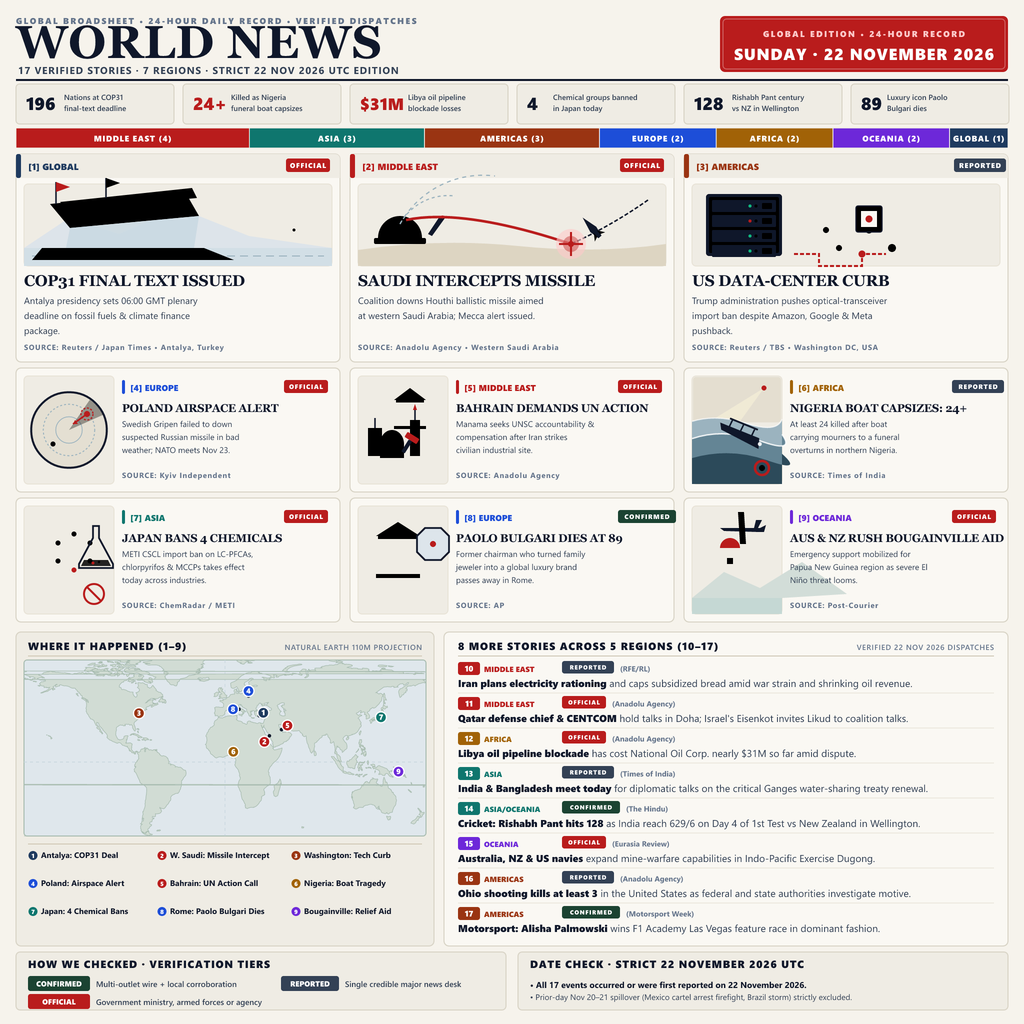
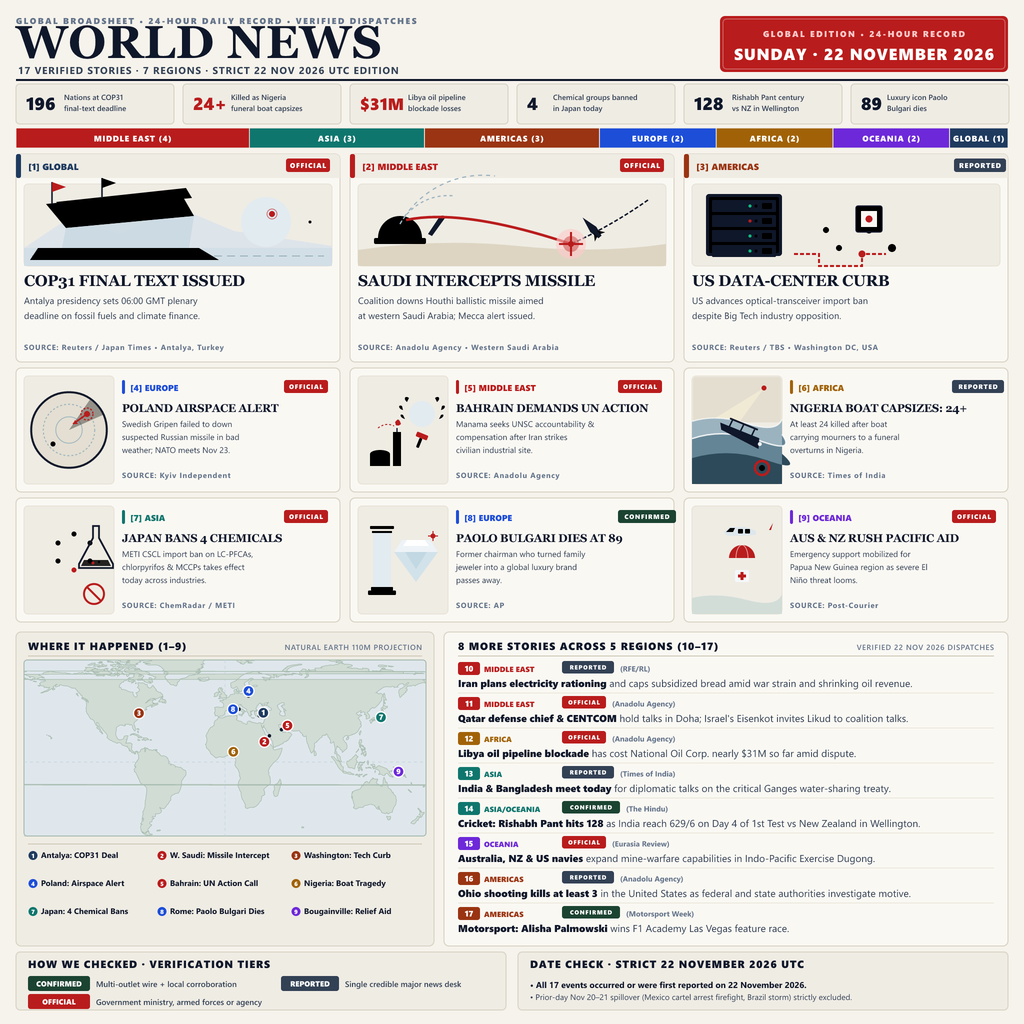
v2: 17-story 7-region broadsheet with Natural Earth map and polished illustrations

diff --git a/scripts/render.ts b/scripts/render.ts
@@ -176,33 +176,48 @@ function renderIllustration1(w: number, h: number): string {
   return `
     <rect width="${w}" height="${h}" rx="4" fill="${C.cardMuted}" stroke="${C.cardBorderSubtle}" stroke-width="1"/>
     <!-- Mediterranean Mountain Ridgeline -->
-    <path d="M 0,${h - 18} L 45,${h - 48} L 95,${h - 32} L 155,${h - 58} L 225,${h - 30} L ${w},${h - 18} L ${w},${h} L 0,${h} Z" fill="#DDE4EA"/>
+    <path d="M 0,${h - 18} L 45,${h - 48} L 95,${h - 32} L 155,${h - 58} L 210,${h - 35} L ${w},${h - 20} L ${w},${h} L 0,${h} Z" fill="#DDE4EA"/>
     <polygon points="155,${h - 58} 165,${h - 46} 145,${h - 46}" fill="#FFFFFF" opacity="0.9"/>
     <!-- Coastline Water -->
     <rect x="0" y="${h - 18}" width="${w}" height="18" fill="#D2DFE6"/>
     <line x1="8" y1="${h - 10}" x2="${w - 8}" y2="${h - 10}" stroke="#9BB3BF" stroke-width="1" stroke-dasharray="8,5"/>
-    <!-- Offshore Wind Turbines -->
-    <g transform="translate(${w - 38}, ${h - 36})">
-      <line x1="0" y1="20" x2="0" y2="0" stroke="${C.steelDark}" stroke-width="1.2"/>
-      <circle cx="0" cy="0" r="1.5" fill="${C.steelDark}"/>
-      <line x1="0" y1="0" x2="-8" y2="-6" stroke="${C.steelMid}" stroke-width="1"/>
-      <line x1="0" y1="0" x2="9" y2="-3" stroke="${C.steelMid}" stroke-width="1"/>
-      <line x1="0" y1="0" x2="-1" y2="9" stroke="${C.steelMid}" stroke-width="1"/>
+    
+    <!-- Stylized COP31 Climate Globe (Latitude/Longitude Lines) -->
+    <g transform="translate(242, 38)">
+      <circle cx="0" cy="0" r="25" fill="#E2EBF0" stroke="${C.steelDark}" stroke-width="1.6"/>
+      <line x1="-25" y1="0" x2="25" y2="0" stroke="${C.steelMid}" stroke-width="1.2"/>
+      <line x1="0" y1="-25" x2="0" y2="25" stroke="${C.steelMid}" stroke-width="1.2"/>
+      <ellipse cx="0" cy="-11" rx="21" ry="6" fill="none" stroke="${C.steelMid}" stroke-width="1"/>
+      <ellipse cx="0" cy="11" rx="21" ry="6" fill="none" stroke="${C.steelMid}" stroke-width="1"/>
+      <ellipse cx="0" cy="0" rx="13" ry="25" fill="none" stroke="${C.steelMid}" stroke-width="1.2"/>
+      <!-- Antalya Summit Crimson Beacon -->
+      <circle cx="6" cy="-8" r="3" fill="${C.crimson}"/>
+      <circle cx="6" cy="-8" r="5" fill="none" stroke="${C.crimson}" stroke-width="0.8" opacity="0.6"/>
     </g>
+
+    <!-- Offshore Wind Turbine -->
+    <g transform="translate(286, 38)">
+      <line x1="0" y1="26" x2="0" y2="0" stroke="${C.steelDark}" stroke-width="1.2"/>
+      <circle cx="0" cy="0" r="1.5" fill="${C.steelDark}"/>
+      <line x1="0" y1="0" x2="-7" y2="-6" stroke="${C.steelMid}" stroke-width="1"/>
+      <line x1="0" y1="0" x2="8" y2="-3" stroke="${C.steelMid}" stroke-width="1"/>
+      <line x1="0" y1="0" x2="-1" y2="8" stroke="${C.steelMid}" stroke-width="1"/>
+    </g>
+
     <!-- Modern Cantilever Pavilion Architecture -->
-    <polygon points="18,${h - 18} 180,${h - 18} 210,${h - 6} 8,${h - 6}" fill="${C.steelDark}"/>
-    <polygon points="26,${h - 62} 160,${h - 76} 175,${h - 50} 46,${h - 38}" fill="${C.steelDark}"/>
-    <polygon points="36,${h - 64} 168,${h - 78} 173,${h - 68} 44,${h - 56}" fill="${C.steelMid}"/>
+    <polygon points="14,${h - 18} 175,${h - 18} 195,${h - 6} 6,${h - 6}" fill="${C.steelDark}"/>
+    <polygon points="22,${h - 62} 155,${h - 76} 170,${h - 50} 42,${h - 38}" fill="${C.steelDark}"/>
+    <polygon points="32,${h - 64} 162,${h - 78} 168,${h - 68} 40,${h - 56}" fill="${C.steelMid}"/>
     <!-- Glass Facade & Columns -->
-    <polygon points="46,${h - 38} 175,${h - 50} 170,${h - 18} 42,${h - 18}" fill="#C8D8E2" opacity="0.85"/>
-    <line x1="72" y1="${h - 41}" x2="68" y2="${h - 18}" stroke="${C.steelDark}" stroke-width="2"/>
-    <line x1="104" y1="${h - 44}" x2="100" y2="${h - 18}" stroke="${C.steelDark}" stroke-width="2"/>
-    <line x1="136" y1="${h - 47}" x2="132" y2="${h - 18}" stroke="${C.steelDark}" stroke-width="2"/>
+    <polygon points="42,${h - 38} 170,${h - 50} 165,${h - 18} 38,${h - 18}" fill="#C8D8E2" opacity="0.85"/>
+    <line x1="68" y1="${h - 41}" x2="64" y2="${h - 18}" stroke="${C.steelDark}" stroke-width="2"/>
+    <line x1="100" y1="${h - 44}" x2="96" y2="${h - 18}" stroke="${C.steelDark}" stroke-width="2"/>
+    <line x1="132" y1="${h - 47}" x2="128" y2="${h - 18}" stroke="${C.steelDark}" stroke-width="2"/>
     <!-- Flags atop roof -->
-    <line x1="32" y1="${h - 62}" x2="32" y2="${h - 84}" stroke="${C.inkNavy}" stroke-width="1.5"/>
-    <polygon points="32,${h - 84} 46,${h - 79} 32,${h - 74}" fill="${C.crimson}"/>
-    <line x1="82" y1="${h - 68}" x2="82" y2="${h - 88}" stroke="${C.inkNavy}" stroke-width="1.5"/>
-    <polygon points="82,${h - 88} 96,${h - 83} 82,${h - 78}" fill="${C.steelMid}"/>
+    <line x1="28" y1="${h - 62}" x2="28" y2="${h - 84}" stroke="${C.inkNavy}" stroke-width="1.5"/>
+    <polygon points="28,${h - 84} 42,${h - 79} 28,${h - 74}" fill="${C.crimson}"/>
+    <line x1="78" y1="${h - 68}" x2="78" y2="${h - 88}" stroke="${C.inkNavy}" stroke-width="1.5"/>
+    <polygon points="78,${h - 88} 92,${h - 83} 78,${h - 78}" fill="${C.steelMid}"/>
   `;
 }
 
@@ -318,33 +333,50 @@ function renderIllustration4(w: number, h: number): string {
   `;
 }
 
-// 5. Bahrain Demands UN Action: Industrial Skyline & Neoclassical Diplomatic Motif
+// 5. Bahrain Demands UN Action: Industrial Skyline & UN Olive-Branch Council Emblem
 function renderIllustration5(w: number, h: number): string {
   return `
     <rect width="${w}" height="${h}" rx="4" fill="${C.cardMuted}" stroke="${C.cardBorderSubtle}" stroke-width="1"/>
-    <!-- Manama Coastal Industrial Skyline -->
-    <g transform="translate(10, ${h - 28})">
-      <rect x="0" y="-28" width="14" height="28" fill="${C.steelDark}"/>
-      <line x1="7" y1="-38" x2="7" y2="-28" stroke="${C.inkNavy}" stroke-width="1.5"/>
-      <ellipse cx="24" cy="-12" rx="12" ry="14" fill="${C.steelMid}"/>
-      <rect x="12" y="-12" width="24" height="14" fill="${C.steelMid}"/>
-      <rect x="42" y="-36" width="10" height="36" fill="${C.steelDark}"/>
-      <line x1="47" y1="-46" x2="47" y2="-36" stroke="${C.inkNavy}" stroke-width="1.5"/>
-      <polygon points="45,-46 47,-52 49,-46" fill="${C.crimson}"/>
+    <!-- Manama Coastal Industrial Facility Silhouette (Bottom Left) -->
+    <g transform="translate(8, ${h - 18})">
+      <line x1="-2" y1="0" x2="48" y2="0" stroke="${C.steelDark}" stroke-width="1.5"/>
+      <ellipse cx="14" cy="-12" rx="10" ry="4" fill="${C.steelDark}"/>
+      <rect x="4" y="-12" width="20" height="12" fill="${C.steelDark}"/>
+      <rect x="27" y="-34" width="8" height="34" fill="${C.steelMid}"/>
+      <line x1="31" y1="-38" x2="31" y2="-34" stroke="${C.inkNavy}" stroke-width="1.2"/>
+      <!-- Small crimson alert wave / spark over facility -->
+      <path d="M 29,-44 Q 31,-38 35,-42 Q 33,-48 31,-46 Z" fill="${C.crimson}"/>
+      <circle cx="31" cy="-42" r="1.5" fill="${C.crimson}"/>
+      <path d="M 12,-38 Q 20,-44 28,-40" fill="none" stroke="${C.crimson}" stroke-width="1" stroke-dasharray="2,2"/>
     </g>
-    <!-- UN Diplomatic Portico & Gavel Silhouette -->
-    <g transform="translate(${w - 38}, 16)">
-      <polygon points="-16,8 16,8 0,-4" fill="${C.steelDark}"/>
-      <rect x="-14" y="8" width="28" height="2.5" fill="${C.steelDark}"/>
-      <line x1="-10" y1="10.5" x2="-10" y2="34" stroke="${C.steelDark}" stroke-width="2"/>
-      <line x1="-3" y1="10.5" x2="-3" y2="34" stroke="${C.steelDark}" stroke-width="2"/>
-      <line x1="4" y1="10.5" x2="4" y2="34" stroke="${C.steelDark}" stroke-width="2"/>
-      <line x1="11" y1="10.5" x2="11" y2="34" stroke="${C.steelDark}" stroke-width="2"/>
-      <rect x="-16" y="34" width="32" height="3" fill="${C.steelDark}"/>
-      <!-- Gavel Silhouette -->
-      <g transform="translate(2, 46) rotate(32)">
-        <rect x="-7" y="-3" width="14" height="6" rx="1" fill="${C.crimson}"/>
-        <rect x="-2" y="3" width="4" height="14" rx="0.8" fill="${C.inkNavy}"/>
+
+    <!-- Clean UN Olive-Branch / Council Emblem (Right / Upper) -->
+    <g transform="translate(64, 38)">
+      <!-- Central Globe -->
+      <circle cx="0" cy="0" r="13" fill="#E2EBF0" stroke="${C.steelDark}" stroke-width="1.3"/>
+      <line x1="-13" y1="0" x2="13" y2="0" stroke="${C.steelMid}" stroke-width="0.8"/>
+      <line x1="0" y1="-13" x2="0" y2="13" stroke="${C.steelMid}" stroke-width="0.8"/>
+      <ellipse cx="0" cy="0" rx="6.5" ry="13" fill="none" stroke="${C.steelMid}" stroke-width="0.8"/>
+
+      <!-- Twin Olive Branches Flanking the Globe -->
+      <!-- Left Branch Arc -->
+      <path d="M -16,10 C -21,2 -19,-8 -12,-15" fill="none" stroke="${C.steelDark}" stroke-width="1.4"/>
+      <!-- Left Leaves -->
+      <path d="M -17,5 C -22,4 -23,-1 -19,1 Z" fill="${C.steelMid}"/>
+      <path d="M -19,-4 C -24,-5 -24,-10 -20,-8 Z" fill="${C.steelMid}"/>
+      <path d="M -15,-12 C -19,-15 -17,-19 -13,-16 Z" fill="${C.steelMid}"/>
+
+      <!-- Right Branch Arc -->
+      <path d="M 16,10 C 21,2 19,-8 12,-15" fill="none" stroke="${C.steelDark}" stroke-width="1.4"/>
+      <!-- Right Leaves -->
+      <path d="M 17,5 C 22,4 23,-1 19,1 Z" fill="${C.steelMid}"/>
+      <path d="M 19,-4 C 24,-5 24,-10 20,-8 Z" fill="${C.steelMid}"/>
+      <path d="M 15,-12 C 19,-15 17,-19 13,-16 Z" fill="${C.steelMid}"/>
+
+      <!-- UN Gavel Silhouette at Base -->
+      <g transform="translate(0, 22) rotate(22)">
+        <rect x="-6" y="-2.5" width="12" height="5" rx="1" fill="${C.crimson}"/>
+        <rect x="-1.5" y="2.5" width="3" height="10" rx="0.8" fill="${C.steelDark}"/>
       </g>
     </g>
   `;
@@ -415,62 +447,106 @@ function renderIllustration7(w: number, h: number): string {
   `;
 }
 
-// 8. Paolo Bulgari Dies at 89: Classical Roman Facade & Octagonal Gem Facet
+// 8. Paolo Bulgari Dies at 89: Faceted Gemstone & Minimalist Roman Column
 function renderIllustration8(w: number, h: number): string {
-  const cx = w / 2;
   return `
     <rect width="${w}" height="${h}" rx="4" fill="${C.cardMuted}" stroke="${C.cardBorderSubtle}" stroke-width="1"/>
-    <!-- Classical Roman Architectural Temple Facade -->
-    <g transform="translate(18, 16)">
-      <polygon points="0,14 44,14 22,0" fill="${C.steelDark}"/>
-      <rect x="2" y="14" width="40" height="3" fill="${C.steelDark}"/>
-      <line x1="6" y1="17" x2="6" y2="52" stroke="${C.steelDark}" stroke-width="2.5"/>
-      <line x1="17" y1="17" x2="17" y2="52" stroke="${C.steelDark}" stroke-width="2.5"/>
-      <line x1="27" y1="17" x2="27" y2="52" stroke="${C.steelDark}" stroke-width="2.5"/>
-      <line x1="38" y1="17" x2="38" y2="52" stroke="${C.steelDark}" stroke-width="2.5"/>
-      <rect x="0" y="52" width="44" height="4" fill="${C.steelDark}"/>
+    <!-- Minimalist Classical Roman Column (Left) -->
+    <g transform="translate(10, 18)">
+      <rect x="2" y="2" width="24" height="3" rx="0.8" fill="${C.steelDark}"/>
+      <path d="M 2,6 C 0,4 2,2 5,4.5 L 23,4.5 C 26,2 28,4 26,6" fill="none" stroke="${C.steelDark}" stroke-width="1.5"/>
+      <rect x="4" y="7" width="20" height="2" fill="${C.steelMid}"/>
+      
+      <rect x="5" y="9" width="18" height="54" fill="#E2EBF0" stroke="${C.steelDark}" stroke-width="1.3"/>
+      <line x1="9" y1="10" x2="9" y2="62" stroke="${C.steelMid}" stroke-width="1"/>
+      <line x1="14" y1="10" x2="14" y2="62" stroke="${C.steelMid}" stroke-width="1"/>
+      <line x1="19" y1="10" x2="19" y2="62" stroke="${C.steelMid}" stroke-width="1"/>
+
+      <rect x="3" y="63" width="22" height="3.5" rx="0.6" fill="${C.steelMid}"/>
+      <rect x="0" y="66.5" width="28" height="4.5" rx="1" fill="${C.steelDark}"/>
     </g>
-    <!-- Octagonal Step-cut Emerald / Gemstone Silhouette -->
-    <g transform="translate(${cx + 14}, 22)">
-      <polygon points="8,0 24,0 32,8 32,24 24,32 8,32 0,24 0,8" fill="#DDE5EB" stroke="${C.inkNavy}" stroke-width="1.8"/>
-      <polygon points="12,5 20,5 25,10 25,22 20,27 12,27 7,22 7,10" fill="none" stroke="${C.steelMid}" stroke-width="1"/>
-      <line x1="8" y1="0" x2="12" y2="5" stroke="${C.steelMid}" stroke-width="1"/>
-      <line x1="24" y1="0" x2="20" y2="5" stroke="${C.steelMid}" stroke-width="1"/>
-      <line x1="32" y1="8" x2="25" y2="10" stroke="${C.steelMid}" stroke-width="1"/>
-      <line x1="32" y1="24" x2="25" y2="22" stroke="${C.steelMid}" stroke-width="1"/>
-      <line x1="24" y1="32" x2="20" y2="27" stroke="${C.steelMid}" stroke-width="1"/>
-      <line x1="8" y1="32" x2="12" y2="27" stroke="${C.steelMid}" stroke-width="1"/>
-      <circle cx="16" cy="16" r="3" fill="${C.crimson}"/>
+
+    <!-- Crisp Faceted Brilliant-Cut Diamond / Gemstone (Right) -->
+    <g transform="translate(58, 48)">
+      <!-- Crown / Table Top -->
+      <polygon points="-14,-14 14,-14 22,-2 -22,-2" fill="#EDF3F7" stroke="${C.steelDark}" stroke-width="1.5"/>
+      <polygon points="-9,-14 9,-14 13,-8 -13,-8" fill="#FFFFFF" stroke="${C.steelMid}" stroke-width="0.8"/>
+      <line x1="-14" y1="-14" x2="-13" y2="-8" stroke="${C.steelMid}" stroke-width="0.8"/>
+      <line x1="14" y1="-14" x2="13" y2="-8" stroke="${C.steelMid}" stroke-width="0.8"/>
+      <line x1="-13" y1="-8" x2="-22" y2="-2" stroke="${C.steelMid}" stroke-width="0.8"/>
+      <line x1="13" y1="-8" x2="22" y2="-2" stroke="${C.steelMid}" stroke-width="0.8"/>
+      <line x1="0" y1="-14" x2="0" y2="-2" stroke="${C.steelMid}" stroke-width="0.8"/>
+
+      <!-- Girdle Separator -->
+      <line x1="-22" y1="-2" x2="22" y2="-2" stroke="${C.steelDark}" stroke-width="1.6"/>
+
+      <!-- Lower Pavilion Cone -->
+      <polygon points="-22,-2 22,-2 0,28" fill="#D2E2EA" stroke="${C.steelDark}" stroke-width="1.5"/>
+      <line x1="0" y1="28" x2="-11" y2="-2" stroke="${C.steelMid}" stroke-width="0.9"/>
+      <line x1="0" y1="28" x2="11" y2="-2" stroke="${C.steelMid}" stroke-width="0.9"/>
+      <polygon points="-11,-2 11,-2 0,15" fill="#C2D8E3" stroke="${C.steelMid}" stroke-width="0.8"/>
+
+      <!-- Crimson Sparkle Glint -->
+      <circle cx="17" cy="-18" r="2.5" fill="${C.crimson}"/>
+      <line x1="17" y1="-23" x2="17" y2="-13" stroke="${C.crimson}" stroke-width="1"/>
+      <line x1="12" y1="-18" x2="22" y2="-18" stroke="${C.crimson}" stroke-width="1"/>
     </g>
   `;
 }
 
-// 9. Bougainville Relief Aid: Pacific Coastline & Humanitarian Cargo Airlift
+// 9. Bougainville / Pacific Relief Aid: Coastline, Helicopter & Parachute Aid Crate
 function renderIllustration9(w: number, h: number): string {
   return `
     <rect width="${w}" height="${h}" rx="4" fill="${C.cardMuted}" stroke="${C.cardBorderSubtle}" stroke-width="1"/>
-    <!-- Tropical Island Volcanic Ridge & Palms -->
-    <path d="M 0,${h - 16} L 32,${h - 42} L 68,${h - 26} L 110,${h - 52} L 155,${h - 20} L ${w},${h - 16} L ${w},${h} L 0,${h} Z" fill="#D2DDD8"/>
-    <rect x="0" y="${h - 16}" width="${w}" height="16" fill="#C5D8D4"/>
-    <!-- Palm Silhouette -->
-    <g transform="translate(24, ${h - 16})">
-      <path d="M 0,0 Q -4,-18 -10,-24" fill="none" stroke="${C.steelDark}" stroke-width="2"/>
-      <line x1="-10" y1="-24" x2="-20" y2="-28" stroke="${C.steelDark}" stroke-width="1.2"/>
-      <line x1="-10" y1="-24" x2="-14" y2="-34" stroke="${C.steelDark}" stroke-width="1.2"/>
-      <line x1="-10" y1="-24" x2="-2" y2="-32" stroke="${C.steelDark}" stroke-width="1.2"/>
-      <line x1="-10" y1="-24" x2="-3" y2="-22" stroke="${C.steelDark}" stroke-width="1.2"/>
+    <!-- Tropical Island Shoreline & Palm (Bottom) -->
+    <path d="M 0,92 Q 25,86 55,94 T ${w},88 L ${w},108 L 0,108 Z" fill="#D2DDD8"/>
+    <g transform="translate(18, 92)">
+      <path d="M 0,0 Q -3,-14 -8,-20" fill="none" stroke="${C.steelDark}" stroke-width="1.8"/>
+      <path d="M -8,-20 Q -16,-23 -20,-20" fill="none" stroke="${C.steelMid}" stroke-width="1.2"/>
+      <path d="M -8,-20 Q -10,-28 -5,-30" fill="none" stroke="${C.steelMid}" stroke-width="1.2"/>
+      <path d="M -8,-20 Q 0,-27 4,-26" fill="none" stroke="${C.steelMid}" stroke-width="1.2"/>
     </g>
-    <!-- Humanitarian Cargo Airlift Aircraft (C-130 Silhouette) -->
-    <g transform="translate(${w - 38}, 22)">
-      <path d="M -24,0 L 16,0 L 22,-3 L 20,4 L 14,4 L -20,3 Z" fill="${C.inkNavy}"/>
-      <polygon points="-6,-16 0,-16 2,16 -4,16" fill="${C.steelDark}"/>
-      <polygon points="12,-8 18,-8 14,0 10,0" fill="${C.inkNavy}"/>
-      <g transform="translate(-14, 20)">
-        <path d="M -10,0 A 10 10 0 0 1 10,0 Z" fill="${C.crimson}"/>
-        <line x1="-10" y1="0" x2="0" y2="10" stroke="${C.steelDark}" stroke-width="0.8"/>
-        <line x1="10" y1="0" x2="0" y2="10" stroke="${C.steelDark}" stroke-width="0.8"/>
-        <rect x="-3" y="10" width="6" height="6" fill="${C.steelDark}"/>
-      </g>
+
+    <!-- Rescue Helicopter (Top - generous clearance, rotor at y=14) -->
+    <g transform="translate(50, 26)">
+      <!-- Main Rotor Blade & Spinning Disc -->
+      <ellipse cx="0" cy="-10" rx="26" ry="3" fill="none" stroke="${C.steelMid}" stroke-width="0.8" stroke-dasharray="3,2"/>
+      <line x1="-24" y1="-10" x2="24" y2="-10" stroke="${C.steelDark}" stroke-width="1.8"/>
+      <line x1="0" y1="-10" x2="0" y2="-5" stroke="${C.steelDark}" stroke-width="2"/>
+      
+      <!-- Sculpted Aerodynamic Fuselage -->
+      <path d="M -16,3 L -18,0 L -12,-5 L 4,-5 L 14,-1 L 14,3 L -12,4 Z" fill="#DDE7EC" stroke="${C.steelDark}" stroke-width="1.4"/>
+      <!-- Cockpit Windscreen -->
+      <polygon points="-16,0 -12,-4 -7,-4 -9,0" fill="${C.steelDark}"/>
+      <!-- Windows -->
+      <rect x="-4" y="-3" width="5" height="4.5" rx="0.8" fill="${C.steelDark}"/>
+      <rect x="3" y="-3" width="5" height="4.5" rx="0.8" fill="${C.steelDark}"/>
+
+      <!-- Tail Boom & Stabilizer Fin -->
+      <line x1="14" y1="0" x2="30" y2="-2" stroke="${C.steelDark}" stroke-width="2"/>
+      <polygon points="27,-2 31,-9 29,-2" fill="${C.crimson}"/>
+      <line x1="31" y1="-10" x2="31" y2="-2" stroke="${C.steelMid}" stroke-width="1.2"/>
+
+      <!-- Landing Skids -->
+      <line x1="-12" y1="7" x2="10" y2="7" stroke="${C.steelDark}" stroke-width="1.4"/>
+      <line x1="-8" y1="3" x2="-10" y2="7" stroke="${C.steelDark}" stroke-width="1.2"/>
+      <line x1="6" y1="3" x2="4" y2="7" stroke="${C.steelDark}" stroke-width="1.2"/>
+    </g>
+
+    <!-- Airdropped Relief Supply Crate with Parachute (Middle, y=46 to 78) -->
+    <g transform="translate(50, 52)">
+      <!-- Crimson Parachute Canopy -->
+      <path d="M -13,0 A 13 13 0 0 1 13,0 Z" fill="${C.crimson}"/>
+      <path d="M -6,0 A 6 13 0 0 1 6,0" fill="none" stroke="#FFFFFF" stroke-width="0.8" opacity="0.6"/>
+      <!-- Suspension Cords -->
+      <line x1="-13" y1="0" x2="-3" y2="12" stroke="${C.steelMid}" stroke-width="0.8"/>
+      <line x1="13" y1="0" x2="3" y2="12" stroke="${C.steelMid}" stroke-width="0.8"/>
+      <line x1="0" y1="0" x2="0" y2="12" stroke="${C.steelMid}" stroke-width="0.8"/>
+      <!-- Aid Box Crate -->
+      <rect x="-7" y="12" width="14" height="12" rx="1.5" fill="#F4F8FA" stroke="${C.steelDark}" stroke-width="1.3"/>
+      <!-- Crimson Relief Cross -->
+      <rect x="-1.5" y="14" width="3" height="8" fill="${C.crimson}"/>
+      <rect x="-4" y="16.5" width="8" height="3" fill="${C.crimson}"/>
     </g>
   `;
 }

diff --git a/README.md b/README.md
@@ -11,20 +11,29 @@ A deterministic Swiss Editorial front-page news digest renderer and competition 
 Designed in high-contrast editorial broadsheet style (inspired by *The Economist* and *Monocle*), optimized for clear readability even at 300px thumbnail view:
 
 - **Archival Palette**: Warm archival paper (`#F6F3EC`), deep ink navy (`#0F172A`), editorial crimson (`#C81E1E`), and muted steel-blue illustration accents (`#648595`, `#9BB3BF`, `#2C4A5A`).
-- **Masthead (Top 148px)**: Bold display serif `WORLD NEWS` title on the left, framed crimson `22 NOVEMBER 2026` date badge on the right, and classic double horizontal rules.
-- **Asymmetric 5-Panel Grid**:
-  1. **Top-Left Hero (60% width)**: `CLIMATE • TURKEY` · `CONFIRMED` — *COP31 NEARS FINAL DEAL* (Antalya overtime talks announce new package, Reuters / Arab News) with custom modern summit pavilion, Mediterranean coastline, and stylized globe illustration.
-  2. **Top-Right Panel (40% width)**: `MIDDLE EAST` · `OFFICIAL` — *SAUDI INTERCEPTS MISSILE* (Houthi launch blocked over southern airspace; Iran plans nationwide winter power rationing, Anadolu Agency / RFE/RL) with geodesic radar dome, elevated launcher battery, and kinetic crimson interception arc.
-  3. **Bottom-Left Panel (33.3% width)**: `TECH • US-CHINA` · `REPORTED` — *US DATA CENTER CURB* (Import ban advances despite Big Tech pushback, Reuters / TBS) with multi-bay enterprise server rack, central AI processor die, and fiber-optic circuit topology.
-  4. **Bottom-Center Panel (33.3% width)**: `EUROPE • NATO` · `OFFICIAL` — *POLAND AIRSPACE ALERT* (NATO set to meet after missile incursion, Kyiv Independent / Reuters) with tactical radar PPI scope, graduated 360° compass bezel, and border incursion alert vector.
-  5. **Bottom-Right Panel (33.3% width)**: `AFRICA • NIGERIA` · `REPORTED` — *BOAT CAPSIZES: 24 DEAD* (Mourners killed as funeral boat capsizes, Times of India) with solemn layered ocean/river swells, listing wooden ferry silhouette, searchlight beam, and remembrance lifebuoy.
-- **Footer Strip (Bottom 56px)**: Centered date and folio `SUNDAY, 22 NOVEMBER 2026 • FIVE REGIONS • GLOBAL DAILY DIGEST`.
+- **Masthead & Key Numbers**: Bold display serif `WORLD NEWS` title on the left, framed crimson `SUNDAY · 22 NOVEMBER 2026` date badge on the right, followed by 6 metric cards (`196`, `24+`, `$31M`, `4`, `128`, `89`).
+- **7-Region Coverage Bar**: Proportional distribution across Middle East (4), Asia (3), Americas (3), Europe (2), Africa (2), Oceania (2), Global (1) for 17 total verified stories.
+- **Top 3 Hero Cards**:
+  1. `GLOBAL · OFFICIAL`: *COP31 FINAL TEXT ISSUED* (Antalya plenary deadline on fossil fuels and climate finance).
+  2. `MIDDLE EAST · OFFICIAL`: *SAUDI INTERCEPTS MISSILE* (Downed over western Saudi Arabia; Mecca alert issued).
+  3. `AMERICAS · REPORTED`: *US DATA-CENTER CURB* (US advances optical-transceiver import ban despite Big Tech industry opposition).
+- **Stories 4–9 Illustrated Grid**:
+  4. `EUROPE · OFFICIAL`: *POLAND AIRSPACE ALERT* (Swedish Gripen interceptor fails in bad weather; NATO meets Nov 23).
+  5. `MIDDLE EAST · OFFICIAL`: *BAHRAIN DEMANDS UN ACTION* (Manama seeks UNSC accountability & compensation for industrial site strike).
+  6. `AFRICA · REPORTED`: *NIGERIA BOAT CAPSIZES: 24+* (At least 24 mourners killed in funeral boat accident).
+  7. `ASIA · OFFICIAL`: *JAPAN BANS 4 CHEMICALS* (METI CSCL import ban takes effect).
+  8. `EUROPE · CONFIRMED`: *PAOLO BULGARI DIES AT 89* (Legendary luxury jeweler passes away).
+  9. `OCEANIA · OFFICIAL`: *AUS & NZ RUSH PACIFIC AID* (Humanitarian relief mobilized for severe El Niño threat).
+- **Zone 6 (Bottom Split)**:
+  - **Left**: Genuine Natural Earth 110m equirectangular projection world map with 125 polygon rings, 9 geocoded story pins with leader lines, and a 3×3 legend.
+  - **Right**: 8 additional verified briefs (10–17) with color-coded region badges and news desk sources.
+- **Footer Verification Strip**: Two-box panel with "HOW WE CHECKED" verification tiers (`CONFIRMED`, `OFFICIAL`, `REPORTED`) and strict 22 November 2026 UTC date audit record.
 
 ## Architecture & Requirements
 
-- `data/stories.json`: Structured news data model for all five regional stories.
+- `data/stories.json`: Structured news data model for all 17 stories across 7 regions.
 - `scripts/render.ts`: Deterministic SVG renderer that rasters at 2048×2048 with `@resvg/resvg-js` and downsamples via `sharp` with Lanczos3 anti-aliasing to an exact 1024×1024 PNG at `assets/entry.png`. Zero external network requests, zero timestamps, zero non-determinism.
-- `main.ts`: Competition runtime entrypoint (Node 22 standard library only — `node:fs`, `node:path`). Validates PNG signature, dimensions (1024×1024), size (< 1 MiB), and deterministically writes `entry.png` to `/output/entry.png` (or `${MAKEFUN_OUTPUT_DIR}/entry.png`).
+- `main.ts`: Competition runtime entrypoint (Node 22 standard library only — `node:fs`, `node:path`, `node:url`). Validates PNG signature, dimensions (1024×1024), size (< 1 MiB), and deterministically writes `entry.png` to `/output/entry.png` (or `${MAKEFUN_OUTPUT_DIR}/entry.png`).
 
 ## Quick Start
 
